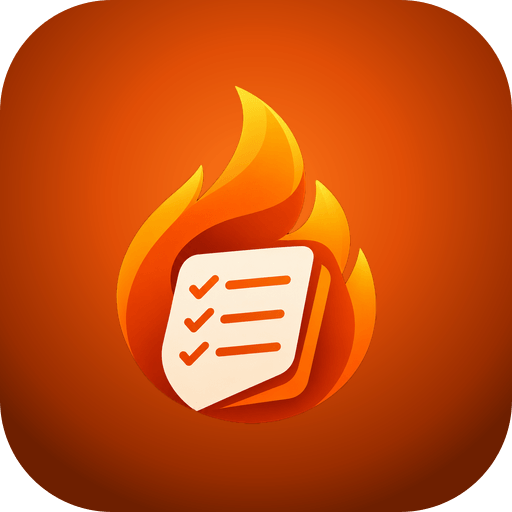
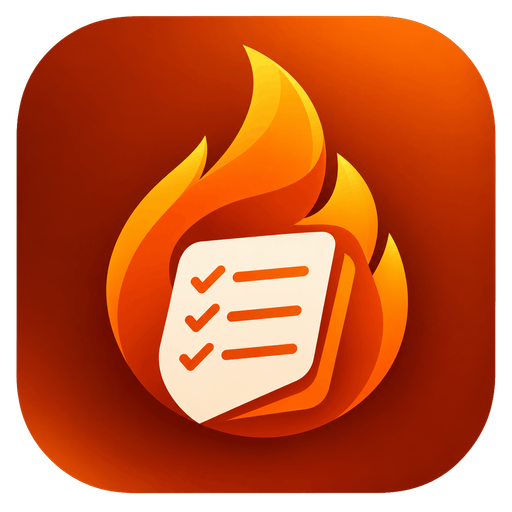
Update: 2026-10-02 13:57

diff --git a/scratch/apply_applogo_to_apk.js b/scratch/apply_applogo_to_apk.js
@@ -1,0 +1,104 @@
+// (2026-07-13) Use root applogo.png directly for all Android APK launcher icons
+const fs = require('fs');
+const path = require('path');
+const sharp = require('sharp');
+
+const rootDir = path.resolve(__dirname, '..');
+const srcAppLogo = path.join(rootDir, 'applogo.png');
+
+const densities = [
+    { name: 'ldpi', launcher: 36, fg: 81 },
+    { name: 'mdpi', launcher: 48, fg: 108 },
+    { name: 'hdpi', launcher: 72, fg: 162 },
+    { name: 'xhdpi', launcher: 96, fg: 216 },
+    { name: 'xxhdpi', launcher: 144, fg: 324 },
+    { name: 'xxxhdpi', launcher: 192, fg: 432 }
+];
+
+async function run() {
+    console.log('Reading root applogo.png:', srcAppLogo);
+    if (!fs.existsSync(srcAppLogo)) throw new Error('applogo.png not found in root directory');
+
+    // 1. Update drawable/applogo.png (512x512)
+    const appLogo512 = await sharp(srcAppLogo)
+        .resize(512, 512, { fit: 'contain', background: { r: 0, g: 0, b: 0, alpha: 0 } })
+        .png({ compressionLevel: 9 })
+        .toBuffer();
+
+    const drawableDir = path.join(rootDir, 'android', 'app', 'src', 'main', 'res', 'drawable');
+    if (fs.existsSync(drawableDir)) {
+        fs.writeFileSync(path.join(drawableDir, 'applogo.png'), appLogo512);
+    }
+    fs.writeFileSync(path.join(rootDir, 'www', 'applogo.png'), appLogo512);
+    fs.writeFileSync(path.join(rootDir, 'assets', 'icon.png'), appLogo512);
+    const pubDir = path.join(rootDir, 'android', 'app', 'src', 'main', 'assets', 'public');
+    if (fs.existsSync(pubDir)) {
+        fs.writeFileSync(path.join(pubDir, 'applogo.png'), appLogo512);
+    }
+
+    // 2. Generate all densities
+    for (const d of densities) {
+        const mipmapDir = path.join(rootDir, 'android', 'app', 'src', 'main', 'res', `mipmap-${d.name}`);
+        if (!fs.existsSync(mipmapDir)) continue;
+
+        // ic_launcher.png (exact applogo.png resized)
+        const launcherBuf = await sharp(srcAppLogo)
+            .resize(d.launcher, d.launcher, { fit: 'contain', background: { r: 0, g: 0, b: 0, alpha: 0 } })
+            .png({ compressionLevel: 9 })
+            .toBuffer();
+        fs.writeFileSync(path.join(mipmapDir, 'ic_launcher.png'), launcherBuf);
+
+        // ic_launcher_round.png (circular mask)
+        const radius = d.launcher / 2;
+        const circleSvg = Buffer.from(
+            `<svg width="${d.launcher}" height="${d.launcher}"><circle cx="${radius}" cy="${radius}" r="${radius}" fill="#fff"/></svg>`
+        );
+        const roundBuf = await sharp(srcAppLogo)
+            .resize(d.launcher, d.launcher, { fit: 'cover' })
+            .composite([{ input: circleSvg, blend: 'dest-in' }])
+            .png({ compressionLevel: 9 })
+            .toBuffer();
+        fs.writeFileSync(path.join(mipmapDir, 'ic_launcher_round.png'), roundBuf);
+
+        // ic_launcher_foreground.png (applogo.png filling adaptive safe area)
+        const fgBuf = await sharp(srcAppLogo)
+            .resize(d.fg, d.fg, { fit: 'contain', background: { r: 0, g: 0, b: 0, alpha: 0 } })
+            .png({ compressionLevel: 9 })
+            .toBuffer();
+        fs.writeFileSync(path.join(mipmapDir, 'ic_launcher_foreground.png'), fgBuf);
+
+        // ic_launcher_background.png (full-bleed fiery background from applogo)
+        const bgBuf = await sharp({
+            create: {
+                width: d.fg,
+                height: d.fg,
+                channels: 4,
+                background: { r: 234, g: 88, b: 12, alpha: 1 } // #ea580c warm orange base
+            }
+        })
+        .composite([{ input: fgBuf }])
+        .png({ compressionLevel: 9 })
+        .toBuffer();
+        fs.writeFileSync(path.join(mipmapDir, 'ic_launcher_background.png'), bgBuf);
+
+        console.log(`Generated mipmap-${d.name} icons from applogo.png`);
+    }
+
+    // 3. Ensure ic_launcher.xml in mipmap-anydpi-v26 references the full layers
+    const anyDpiDir = path.join(rootDir, 'android', 'app', 'src', 'main', 'res', 'mipmap-anydpi-v26');
+    const xmlContent = `<?xml version="1.0" encoding="utf-8"?>
+<adaptive-icon xmlns:android="http://schemas.android.com/apk/res/android">
+    <background android:drawable="@mipmap/ic_launcher_background" />
+    <foreground android:drawable="@mipmap/ic_launcher_foreground" />
+</adaptive-icon>
+`;
+    fs.writeFileSync(path.join(anyDpiDir, 'ic_launcher.xml'), xmlContent, 'utf8');
+    fs.writeFileSync(path.join(anyDpiDir, 'ic_launcher_round.xml'), xmlContent, 'utf8');
+
+    console.log('All APK launcher icons successfully updated directly from applogo.png.');
+}
+
+run().catch(e => {
+    console.error(e);
+    process.exit(1);
+});
